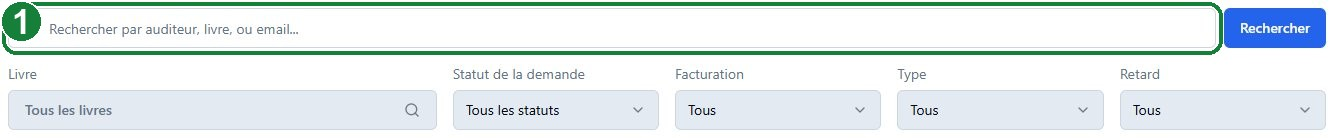
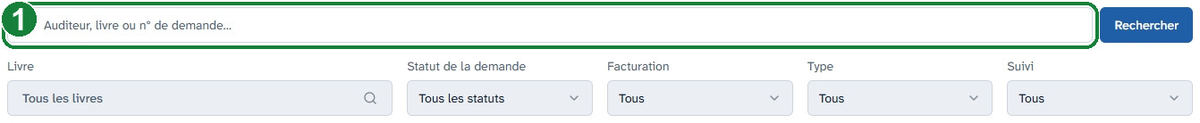
Filtre « Retard » renommé « Suivi »
Demandes : l'étiquette du filtre dit « Suivi » ; attributions : son nom pour
les lecteurs d'écran devient « Filtrer par suivi ». Les options (« À suivre »,
« À surveiller », « À jour ») et la valeur `retard=` de l'URL ne changent pas.

Mode d'emploi (demandes, attributions) et quatre captures des demandes mis à
jour. Recherche de l'aide : « retard » mène à « suivi » et « relancer »,
« impayé » et « relance » à « relancer ».

diff --git a/lib/orders/orderList.ts b/lib/orders/orderList.ts
@@ -89,7 +89,7 @@ export function orderListWhere(
         else {
             // « Réalisable » / « Après enregistrement » — open duplications that can be
             // done now, or that wait on a recording still under way. Read off
-            // the délais, like « Retard », so the dashboard count matches.
+            // the délais, like « Suivi », so the dashboard count matches.
             const dupClause = duplicationStateWhere(f.isDuplication, ctx.delais);
             if (dupClause) where.AND = [...andClauses(where), dupClause];
         }
@@ -125,7 +125,7 @@ export async function loadOrderList(
     const pageSize = parsePageSizeParam(sp.perPage);
     const filterBook = await resolveBookFilter(sp.bookId);
 
-    // Délais par étape — read once, used by the « Retard » filter, by the row
+    // Délais par étape — read once, used by the « Suivi » filter, by the row
     // badges and by the rescue notes, so all three agree (lib/orders/delais.ts).
     const delais = await getOpenOrderDelais(opts.aveugleId ? { aveugleId: opts.aveugleId } : {});
     const ctx = { delais, bookId: filterBook?.id, aveugleId: opts.aveugleId };

diff --git a/lib/orders/delais.ts b/lib/orders/delais.ts
@@ -26,7 +26,7 @@ import { STATUS } from '@/lib/statusSync';
  * for a demande, `computeAssignmentDelai` for an attribution, both on the same
  * thresholds and clocks: the list filters work on the ids they flag rather than
  * on a parallel Prisma translation of the same rule, so the badge on a row, the
- * « Retard » filter and the dashboard count can never disagree. That costs one
+ * « Suivi » filter and the dashboard count can never disagree. That costs one
  * read of the open rows per page, bounded by the work in progress, not history.
  */
 
@@ -308,7 +308,7 @@ export async function getOpenAssignmentDelais(
 // ─── Filter, badges, tallies — shared by both lists ────────────────────────
 
 /**
- * The « Retard » filter of the demandes and attributions lists, as a where
+ * The « Suivi » filter of the demandes and attributions lists, as a where
  * clause built from the ids the délais flagged. `true` / `false` are the values
  * the demandes filter has always carried in its URL, so bookmarks keep working:
  *  - `true`       — en retard, whatever the stage

diff --git a/app/admin/assignments/assignments-table.tsx b/app/admin/assignments/assignments-table.tsx
@@ -124,7 +124,7 @@ export default function AssignmentsTable({
         });
     };
 
-    // Délais par étape — the demandes list's « Retard » filter, same rule.
+    // Délais par étape — the demandes list's « Suivi » filter, same rule.
     const handleRetardFilter = (retard: string) => {
         updateUrl({
             retard: retard === 'all' ? undefined : retard,
@@ -339,7 +339,7 @@ export default function AssignmentsTable({
                                 disabled={isPending}
                             >
                                 <SelectTrigger
-                                    aria-label="Filtrer par retard"
+                                    aria-label="Filtrer par suivi"
                                     className="bg-field border-border text-foreground"
                                 >
                                     <SelectValue />

diff --git a/app/api/orders/route.ts b/app/api/orders/route.ts
@@ -155,7 +155,7 @@ export const GET = withAdmin(async (request) => {
             whereClause.assignments = { none: { deletedAt: null } };
         }
 
-        // Retard filter — the délais par étape of /admin/orders (lib/orders/delais.ts),
+        // Suivi (retard) filter — the délais par étape of /admin/orders (lib/orders/delais.ts),
         // read only when asked for: no caller of this route sends it today.
         const retardClause = retard ? retardWhere(retard, await getOpenOrderDelais()) : null;
         if (retardClause) {

diff --git a/app/admin/orders/orders-table.tsx b/app/admin/orders/orders-table.tsx
@@ -432,7 +432,7 @@ export default function OrdersTable({
                     </div>
 
                     <div>
-                        <label htmlFor="orders-retard" className="text-sm text-muted-foreground mb-1.5 block">Retard</label>
+                        <label htmlFor="orders-retard" className="text-sm text-muted-foreground mb-1.5 block">Suivi</label>
                         <Select
                             value={currentRetard}
                             onValueChange={(value) => handleFilterChange('retard', value)}

diff --git a/app/admin/assignments/page.tsx b/app/admin/assignments/page.tsx
@@ -31,7 +31,7 @@ async function getAssignments(
     const assignmentsPerPage = pageSize;
 
     // Délais par étape — the same rule as the demandes list (lib/orders/delais.ts),
-    // read once for the « Retard » filter, the row badges and the rescue notes.
+    // read once for the « Suivi » filter, the row badges and the rescue notes.
     const delais = await getOpenAssignmentDelais();
 
     // The whole where clause for a given search term — a function so the

diff --git a/lib/aide-search.ts b/lib/aide-search.ts
@@ -84,8 +84,9 @@ export const AIDE_SYNONYMS: Record<string, string[]> = {
     cout: ['tarif', 'prix'],
     montant: ['tarif', 'prix'],
     donation: ['don'],
-    impaye: ['relancer', 'retard'],
-    relance: ['retard'],
+    impaye: ['relancer'],
+    relance: ['relancer'],
+    retard: ['suivi', 'relancer'],
     imprimer: ['impression', 'imprim'],
     pdf: ['impression', 'imprim'],
     excel: ['csv', 'export'],

diff --git a/content/aide/06-demandes.md b/content/aide/06-demandes.md
@@ -46,7 +46,7 @@ Vous pouvez filtrer votre recherche selon les critères suivants :
 
 4. Le type de la demande : enregistrement ou duplication. Deux choix de plus trient les duplications ouvertes : « Duplication réalisable » (celles qui peuvent être faites dès maintenant — c'est la liste qu'ouvre la ligne « Duplications à faire » de la page principale) et « Duplication après enregistrement » (celles dont le livre est encore en cours d'enregistrement : elles restent « À faire », avec sous leur statut la mention « Après l'enregistrement en cours », et le nom du lecteur au survol)
 
-5. Le filtre « Retard » : « À suivre », « À surveiller » ou « À jour » — voir [Délais et suivi](/admin/aide/demandes#delais-et-suivi) juste en dessous
+5. Le filtre « Suivi » : « À suivre », « À surveiller » ou « À jour » — voir [Délais et suivi](/admin/aide/demandes#delais-et-suivi) juste en dessous
 
 Le bouton « Effacer les filtres » les retire tous d'un coup.
 
@@ -83,7 +83,7 @@ Dans la liste, une demande à suivre apparaît sur fond orange clair, avec sous 
 
 ![Demandes - capture 15](/admin/aide/images/demandes-15.jpg)
 
-La liste des [attributions](/admin/aide/attributions) a le même filtre « Retard », avec les mêmes délais pour les deux premières étapes, et les lignes sous les cartes de la [page principale](/admin/aide/page-principale#ce-qui-est-a-suivre) reprennent exactement ces règles.
+La liste des [attributions](/admin/aide/attributions) a le même filtre « Suivi », avec les mêmes délais pour les deux premières étapes, et les lignes sous les cartes de la [page principale](/admin/aide/page-principale#ce-qui-est-a-suivre) reprennent exactement ces règles.
 
 Les anciennes demandes restées ouvertes apparaissent elles aussi « à suivre », parfois depuis plusieurs années. Si une demande est en réalité terminée, clôturez-la : elle disparaît du décompte.
 

diff --git a/content/aide/07-attributions.md b/content/aide/07-attributions.md
@@ -12,7 +12,7 @@ Elles possèdent également leur propre statut, qui va de « en cours » à « t
 
 L'URL de cette page est https://eca-aveugles.fr/admin/assignments.
 
-La page d'accueil comporte (1) un tableau répertoriant les attributions existantes, (2) un champ de recherche permettant d'affiner la recherche, (3) un filtre par livre, (4) un filtre par statut, et un filtre par retard (« À suivre », « À surveiller », « À jour »). La recherche porte sur le lecteur, l'auditeur, le livre et le numéro de l'attribution.
+La page d'accueil comporte (1) un tableau répertoriant les attributions existantes, (2) un champ de recherche permettant d'affiner la recherche, (3) un filtre par livre, (4) un filtre par statut, et un filtre de suivi (« À suivre », « À surveiller », « À jour »). La recherche porte sur le lecteur, l'auditeur, le livre et le numéro de l'attribution.
 
 Une attribution en attente d'envoi est « à suivre » après 60 jours sans lecteur ; un livre chez le lecteur est « à surveiller » après 60 jours et « à relancer » après 90 — les mêmes délais que pour les demandes, détaillés dans [Délais et suivi](/admin/aide/demandes#delais-et-suivi). Une attribution à suivre apparaît sur fond orange clair, avec sous son statut la mention « À suivre » ou « À relancer ».
 
